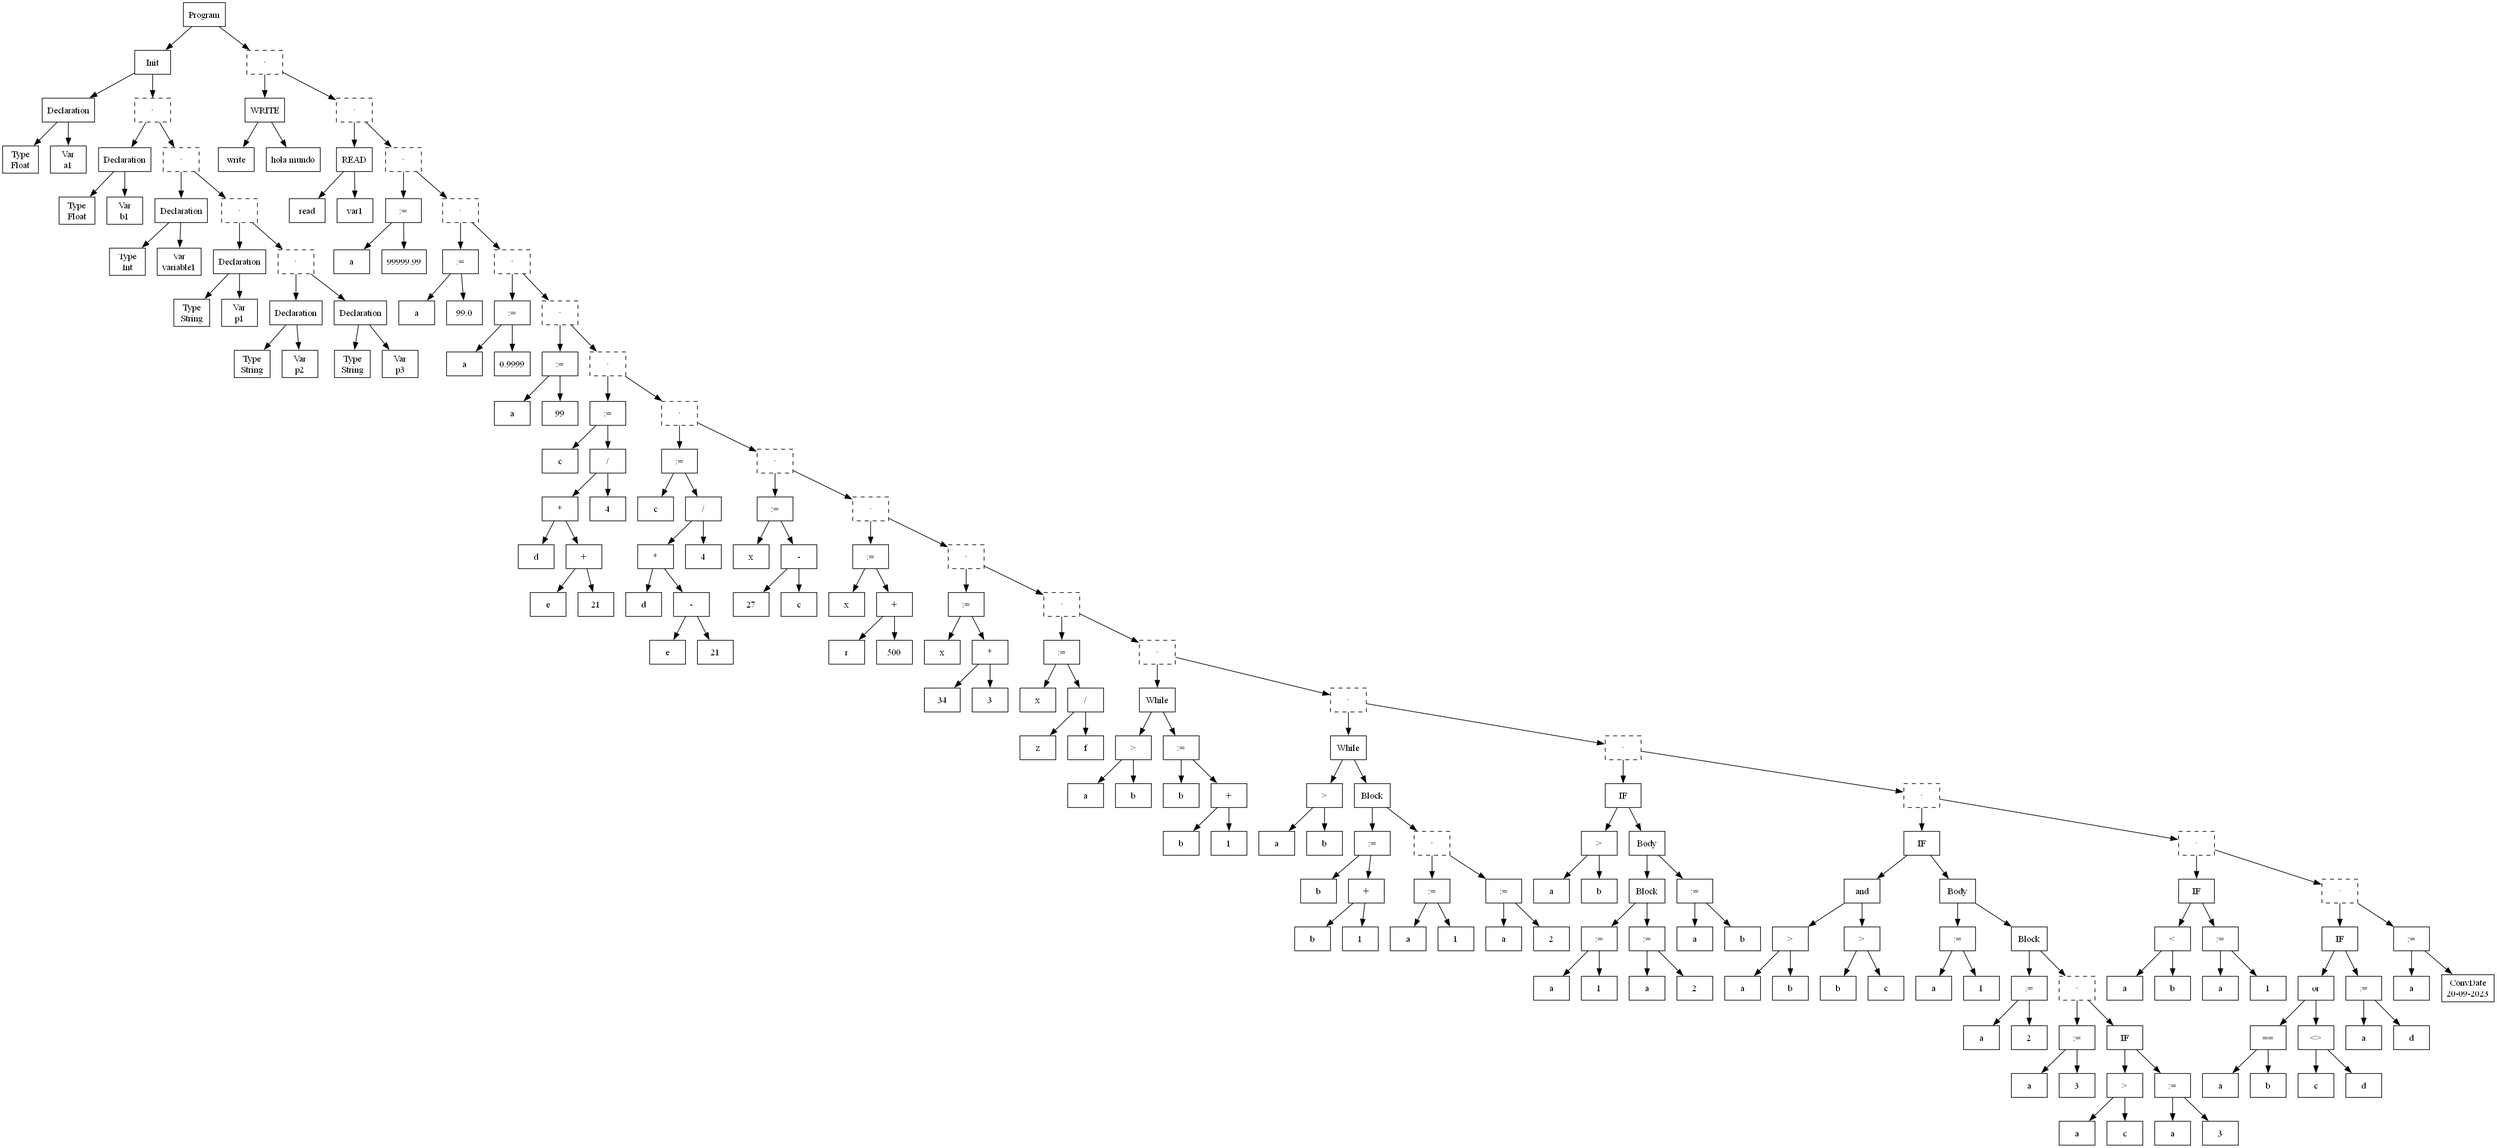
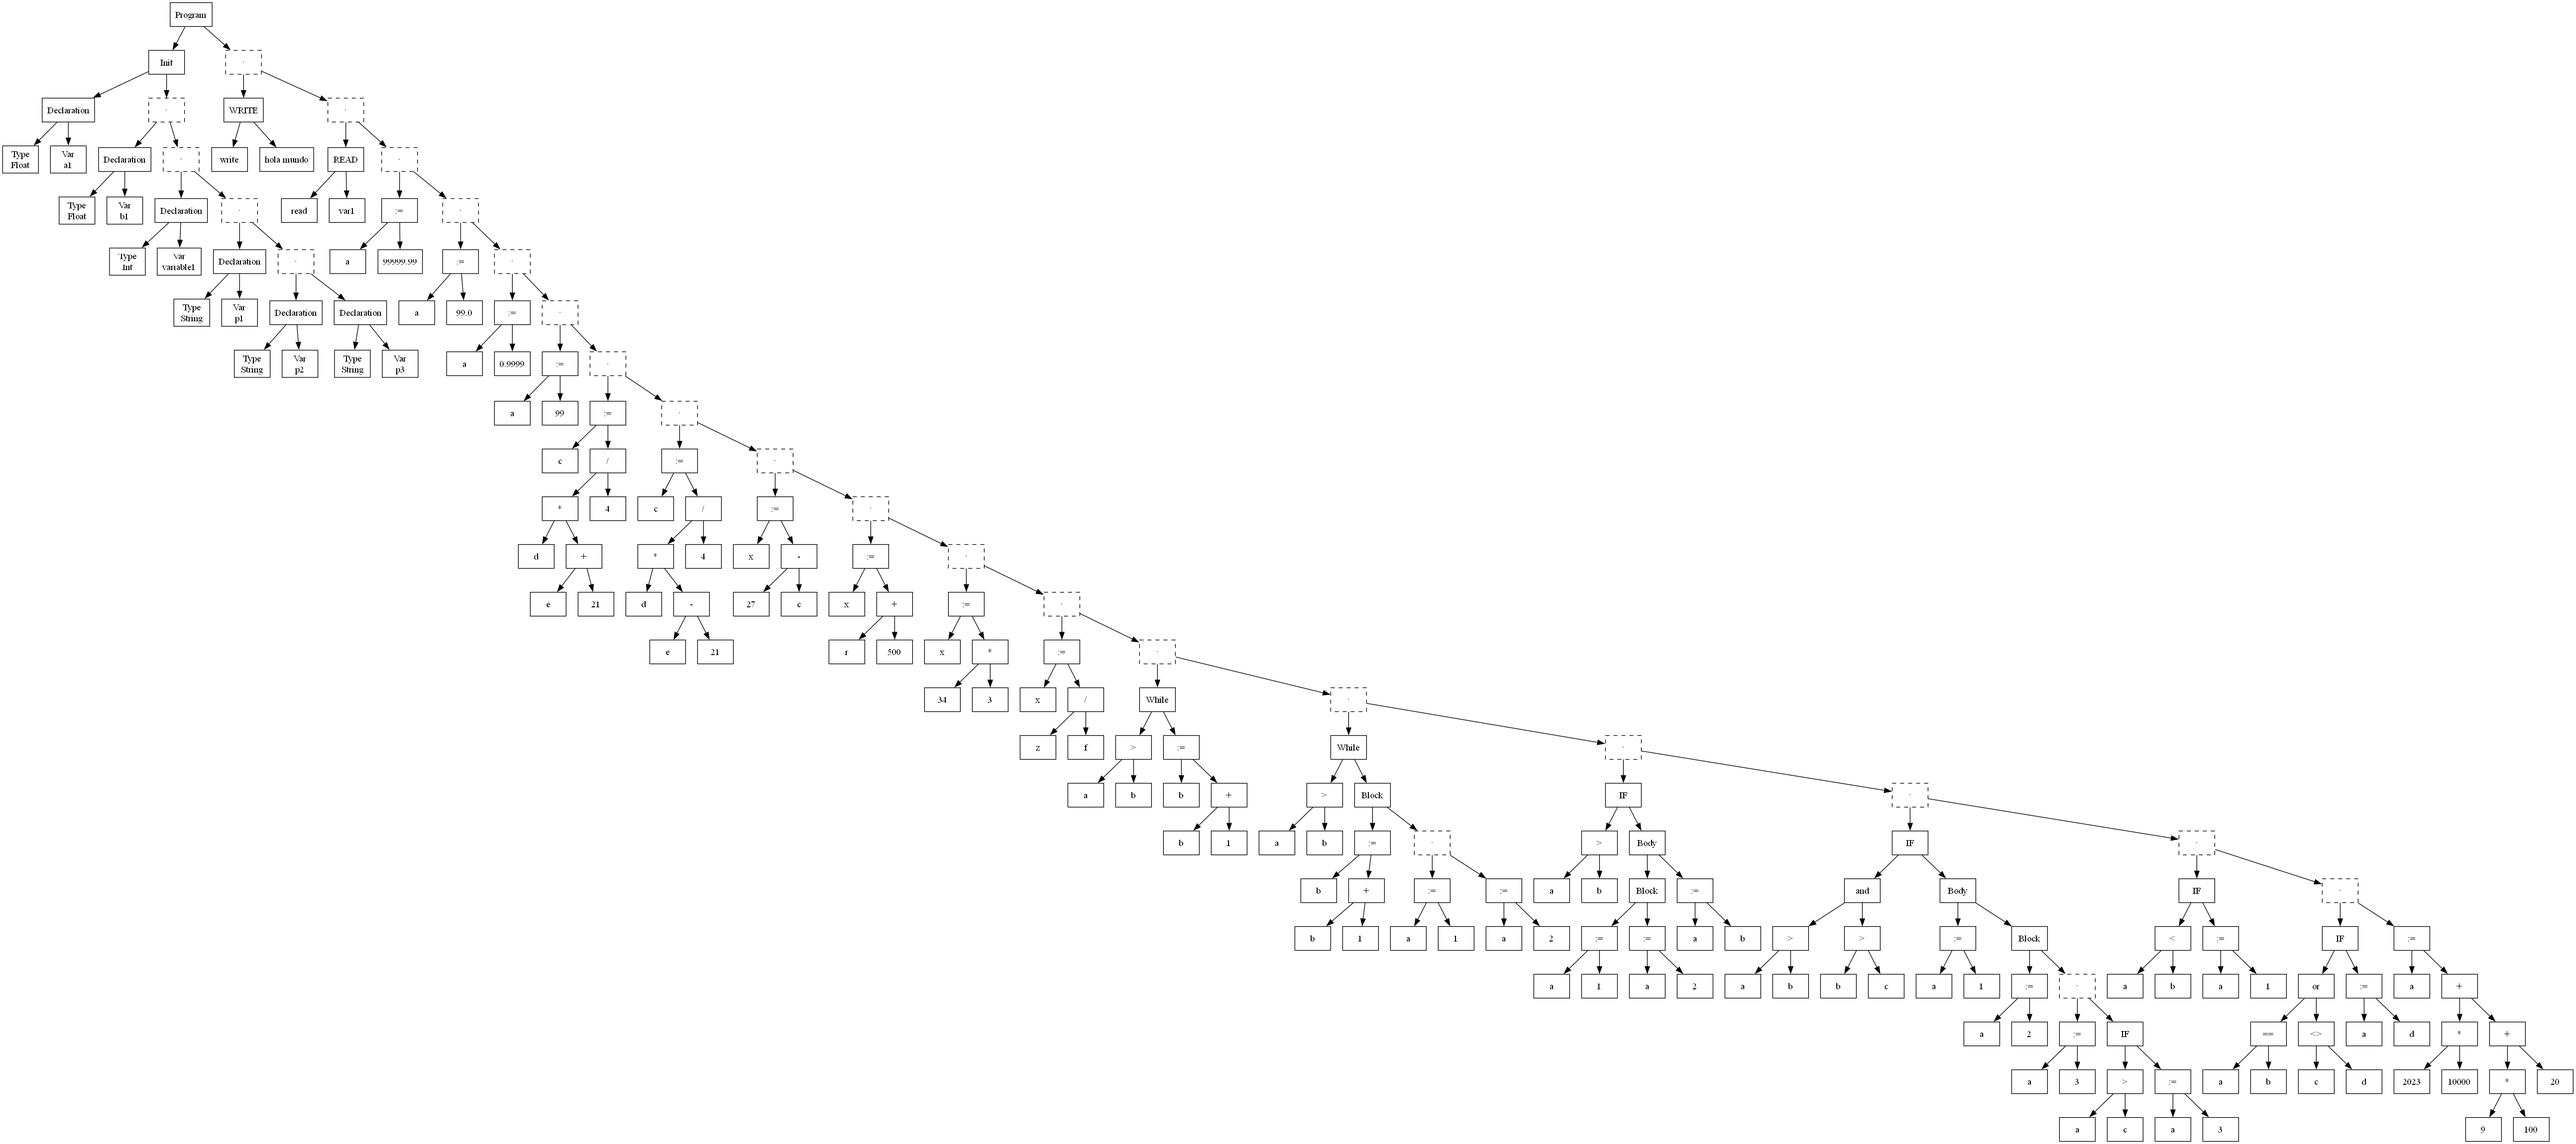
convDate in gci

diff --git a/parser.py b/parser.py
@@ -321,8 +321,44 @@ def p_conv_date(p):
     '''conv_date : CONV_DATE A_PARENTESIS DATE C_PARENTESIS
     '''
     print(f'convDate ( DATE ) -> conv_date')
-    node = ASTNode('ConvDate', value=p[3])
-    p[0] = node
+    # Build an arithmetic AST equivalent to: (anio * 10000) + (mes * 100) + dia
+    # This follows the project's convention of representing expressions as
+    # ASTNodes with operators '+', '*', etc., so the code generator can lower
+    # the arithmetic like any other expression.
+    raw = p[3]
+    try:
+        dia, mes, anio = map(int, raw.split('-'))
+        # Basic validation (lexer already enforces general shape and ranges)
+        mdays = [0,31,29,31,30,31,30,31,31,30,31,30,31]
+        if not (1 <= mes <= 12 and 1 <= dia <= mdays[mes]):
+            raise ValueError(f"Fecha inválida '{raw}'")
+        if mes == 2 and dia == 29:
+            is_leap = (anio % 4 == 0 and (anio % 100 != 0 or anio % 400 == 0))
+            if not is_leap:
+                raise ValueError(f"Fecha inválida (no es año bisiesto) '{raw}'")
+
+        # Create numeric AST nodes for year, month, day and the constants
+        node_year = ASTNode(str(anio))
+        node_month = ASTNode(str(mes))
+        node_day = ASTNode(str(dia))
+        node_10000 = ASTNode(str(10000))
+        node_100 = ASTNode(str(100))
+
+        # anio * 10000
+        mul_year = ASTNode('*', children=[node_year, node_10000])
+        # mes * 100
+        mul_month = ASTNode('*', children=[node_month, node_100])
+        # (mes * 100) + dia
+        add_month_day = ASTNode('+', children=[mul_month, node_day])
+        # (anio * 10000) + ((mes * 100) + dia)
+        total = ASTNode('+', children=[mul_year, add_month_day])
+        p[0] = total
+    except Exception as e:
+        # On failure, fall back to a ConvDate node so later stages can
+        # implement runtime conversion or raise an error.
+        print('Warning: convDate -> building arithmetic AST failed:', e)
+        node = ASTNode('ConvDate', value=raw)
+        p[0] = node
 
 
 def p_expresion_menos(p):
@@ -435,25 +471,6 @@ def ejecutar_parser():
     global symbol_table
     symbol_table = []
     ast = parser.parse(code)
-
-    # write intermediate code as AST tree to intermediate-code.txt
-    out_path = Path('./intermediate-code.txt')
-    if isinstance(ast, ASTNode):
-        out_text = ast.to_string()
-    else:
-        # sometimes parser returns list
-        if isinstance(ast, list):
-            lines = []
-            for n in ast:
-                if isinstance(n, ASTNode):
-                    lines.extend(n.to_lines())
-                else:
-                    lines.append(str(n))
-            out_text = '\n'.join(lines)
-        else:
-            out_text = str(ast)
-
-    out_path.write_text(out_text, encoding='utf-8')
 
     # write symbol table to resources/tabla_simbolos.txt
     # output_path = Path('./resources/tabla_simbolos.txt')
